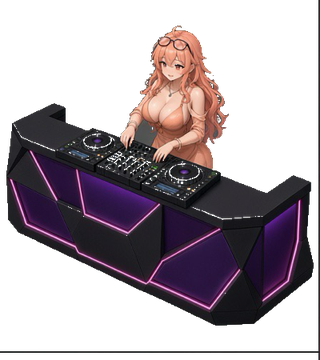
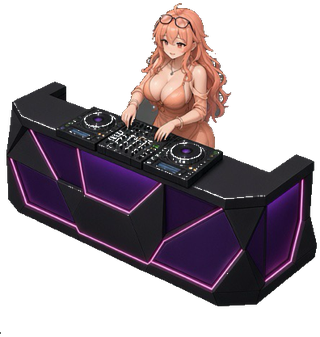
feat: DJ clean sheets + Luna idle front/back iso facing
Replace DJ booth front/back crops (no grid) keeping displaySize [98,110].
Wire Luna directional idle: SE/SW front sheet, NE/NW back (normalized 146×784) with flipX; walk uses facing idle until walk art arrives.

Changed region(s): [[0.0, 0.0, 1.0, 1.0], [0.6562, 0.8902, 0.8125, 0.9199]]

diff --git a/src/game/entities/Character.ts b/src/game/entities/Character.ts
@@ -19,6 +19,8 @@ export class Character extends Phaser.GameObjects.Container {
   protected walkAnimPrefix: string | null = null;
   /** Prefix for directional idle: `${prefix}-${facing}`; falls back to idleAnimKey. */
   protected idleAnimPrefix: string | null = null;
+  /** When true, SW/NW mirror the SE/NE sheets via flipX (Luna front/back). */
+  protected flipIdleFacings = false;
   /** Persist display size across texture swaps (idle ↔ walk ↔ serve). */
   protected sheetDisplayW = 0;
   protected sheetDisplayH = 0;
@@ -59,6 +61,8 @@ export class Character extends Phaser.GameObjects.Container {
     y?: number;
     walkAnimPrefix?: string;
     idleAnimPrefix?: string;
+    /** Mirror SW/NW with flipX (front/back sheet pairs). */
+    flipIdleFacings?: boolean;
   }): void {
     this.useSheetIdle = true;
     this.idleAnimKey = opts.animKey;
@@ -68,6 +72,7 @@ export class Character extends Phaser.GameObjects.Container {
         : null;
     this.walkAnimPrefix = opts.walkAnimPrefix ?? null;
     this.idleAnimPrefix = opts.idleAnimPrefix ?? null;
+    this.flipIdleFacings = opts.flipIdleFacings ?? false;
     this.sheetDisplayW = opts.displayWidth;
     this.sheetDisplayH = opts.displayHeight;
     this.bobTween?.stop();
@@ -107,13 +112,21 @@ export class Character extends Phaser.GameObjects.Container {
       const facingKey = `${this.idleAnimPrefix}-${this.facing}`;
       if (this.scene.anims.exists(facingKey)) key = facingKey;
     }
-    if (pool && pool.length > 0) {
+    // Facing-prefix idle wins over random pool (pool is for same-facing alts only).
+    if (pool && pool.length > 0 && !this.idleAnimPrefix) {
       key = pool[Math.floor(Math.random() * pool.length)] ?? key;
     }
     if (!key || !this.scene.anims.exists(key)) return;
     this.idleAnimKey = key;
+    this.applyFacingFlip();
     this.sprite.play(key, force);
     this.reapplyDisplaySize();
+  }
+
+  /** Mirror SW/NW when using front/back sheet pairs. */
+  protected applyFacingFlip(): void {
+    if (!this.flipIdleFacings) return;
+    this.sprite.setFlipX(this.facing === 'sw' || this.facing === 'nw');
   }
 
   private onSheetIdleComplete(
@@ -137,11 +150,22 @@ export class Character extends Phaser.GameObjects.Container {
 
   protected playWalkFacing(facing: IsoFacing): void {
     this.facing = facing;
-    if (!this.walkAnimPrefix) return;
-    const key = `${this.walkAnimPrefix}-${facing}`;
-    if (this.scene.anims.exists(key)) {
-      this.sprite.play(key, true);
-      this.reapplyDisplaySize();
+    this.applyFacingFlip();
+    if (this.walkAnimPrefix) {
+      const key = `${this.walkAnimPrefix}-${facing}`;
+      if (this.scene.anims.exists(key)) {
+        this.sprite.play(key, true);
+        this.reapplyDisplaySize();
+        return;
+      }
+    }
+    // No walk art yet — keep directional idle playing while moving.
+    if (this.idleAnimPrefix) {
+      const idleKey = `${this.idleAnimPrefix}-${facing}`;
+      if (this.scene.anims.exists(idleKey)) {
+        this.sprite.play(idleKey, true);
+        this.reapplyDisplaySize();
+      }
     }
   }
 
@@ -212,10 +236,12 @@ export class Character extends Phaser.GameObjects.Container {
     const screen = tileToScreen(next.col, next.row, this.iso);
     const dist = Phaser.Math.Distance.Between(this.x, this.y, screen.x, screen.y);
     const duration = Math.max(120, (dist / this.moveSpeed) * 1000);
-    if (!this.walkAnimPrefix) this.stopBob();
-    else {
+    // Prefer walk anim; else directional idle keeps playing (don't stopBob freeze).
+    if (this.walkAnimPrefix || this.idleAnimPrefix) {
       this.bobTween?.stop();
       this.bobTween = undefined;
+    } else {
+      this.stopBob();
     }
     this.scene.tweens.add({
       targets: this,

diff --git a/src/game/scenes/BootScene.ts b/src/game/scenes/BootScene.ts
@@ -108,6 +108,11 @@ export class BootScene extends Phaser.Scene {
       frameWidth: 146,
       frameHeight: 784,
     });
+    // Back-facing idle (normalized to same 146×784 as front)
+    this.load.spritesheet('luna_idle_back', 'assets/characters/luna_idle_back_sheet.png', {
+      frameWidth: 146,
+      frameHeight: 784,
+    });
     this.load.spritesheet('luna_serve_beer', 'assets/characters/luna_serve_beer_sheet.png', {
       frameWidth: 146,
       frameHeight: 784,
@@ -151,7 +156,26 @@ export class BootScene extends Phaser.Scene {
   }
 
   private ensureCharacterAnims(): void {
-    if (!this.anims.exists('luna-idle')) {
+    // Luna directional idle: SE/SW = front sheet, NE/NW = back sheet (flipX in Character)
+    const lunaIdleFacings: Array<{ key: string; texture: string }> = [
+      { key: 'se', texture: 'luna_idle' },
+      { key: 'sw', texture: 'luna_idle' },
+      { key: 'ne', texture: 'luna_idle_back' },
+      { key: 'nw', texture: 'luna_idle_back' },
+    ];
+    for (const f of lunaIdleFacings) {
+      const animKey = `luna-idle-${f.key}`;
+      if (!this.anims.exists(animKey) && this.textures.exists(f.texture)) {
+        this.anims.create({
+          key: animKey,
+          frames: this.anims.generateFrameNumbers(f.texture, { start: 0, end: 7 }),
+          frameRate: 9,
+          repeat: -1,
+        });
+      }
+    }
+    // Legacy alias (default SE)
+    if (!this.anims.exists('luna-idle') && this.anims.exists('luna-idle-se')) {
       this.anims.create({
         key: 'luna-idle',
         frames: this.anims.generateFrameNumbers('luna_idle', { start: 0, end: 7 }),

diff --git a/src/game/entities/Bartender.ts b/src/game/entities/Bartender.ts
@@ -16,7 +16,7 @@ export interface BartenderData {
   moveSpeed: number;
 }
 
-/** Luna idle sheet: 1168×784 → 8 frames of 146×784; feet near y=583. */
+/** Luna idle front/back sheets: 1168×784 → 8 frames of 146×784; feet near y=583. */
 export const LUNA_IDLE_FRAME_W = 146;
 export const LUNA_IDLE_FRAME_H = 784;
 export const LUNA_FEET_ORIGIN_Y = 583 / 784;
@@ -70,11 +70,13 @@ export class Bartender extends Character {
       const displayH = LUNA_DISPLAY_H;
       const displayW = (LUNA_IDLE_FRAME_W / LUNA_IDLE_FRAME_H) * displayH;
       this.setupSheetIdle({
-        animKey: 'luna-idle',
+        animKey: 'luna-idle-se',
         originY: LUNA_FEET_ORIGIN_Y,
         displayWidth: displayW,
         displayHeight: displayH,
         y: 6,
+        idleAnimPrefix: 'luna-idle',
+        flipIdleFacings: true, // SE/SW=front sheet, NE/NW=back sheet + flipX
       });
       this.ring.setPosition(0, -2);
       this.ring.setSize(28, 12);
@@ -250,6 +252,7 @@ export class Bartender extends Character {
 
     this.bobTween?.stop();
     this.bobTween = undefined;
+    this.applyFacingFlip();
     this.sprite.play(key, true);
     this.reapplyDisplaySize();
     this.sprite.setOrigin(0.5, originY);

diff --git a/scripts/process_luna_idle_facings.py b/scripts/process_luna_idle_facings.py
@@ -1,0 +1,198 @@
+#!/usr/bin/env python3
+"""Punch studio gray from Luna idle FRONT/BACK sheets; normalize back to 146×784."""
+from __future__ import annotations
+
+from pathlib import Path
+
+import numpy as np
+from PIL import Image
+from scipy import ndimage
+
+ATT = Path("/home/box/agent-data/agents/f700e6ae-328d-4b52-bf56-2e253ee65a34/attachments")
+# A = front (face), B = back (hair + apron bow)
+FRONT_SRC = ATT / "4d97ea654ced12d6287dc0d7a186ee6554e727abb6fb24ab2c69192cc7bf6e09.png"
+BACK_SRC = ATT / "3f5fafb779833b766dc739b4e57c498c11ecf3f163d9b7f586004e2c59ea406d.png"
+
+OUT = Path("/workspace/night-club-sim/public/assets/characters")
+CUTOUTS = Path("/workspace/cutouts")
+PREV = Path("/workspace/night-club-sim/tmp_bar_preview")
+
+FRONT_FW, FRONT_FH = 146, 784
+FRONT_COLS = 8
+BACK_NATIVE_FW = 200  # 1600/8
+TARGET_CONTENT_H = 417
+FEET_Y = 583  # match existing front feet
+
+
+def punch_studio(rgba: np.ndarray) -> np.ndarray:
+    rgb = rgba[:, :, :3].astype(np.float32)
+    a0 = rgba[:, :, 3].astype(np.float32)
+    mx = rgb.max(2)
+    mn = rgb.min(2)
+    spread = mx - mn
+    luma = rgb.mean(2)
+    r, g, b = rgb[:, :, 0], rgb[:, :, 1], rgb[:, :, 2]
+
+    colorful = (spread >= 18) & (a0 > 40)
+    skin = (r > 110) & (g > 75) & (b > 55) & (r > g) & (spread > 8) & (a0 > 40)
+    hair_pink = (r > 140) & (b > 100) & (g < r) & (spread > 20) & (a0 > 40)
+    black_clothes = (mx <= 55) & (a0 > 80) & (spread < 25)
+    white_frill = (mn > 180) & (spread < 40) & (a0 > 80)
+    protect = colorful | skin | hair_pink | black_clothes | white_frill
+
+    studio = (spread < 18) & (luma >= 70) & (luma <= 140) & ~protect
+    near_black = (mx < 22) & (spread < 10) & ~protect & (a0 > 0)
+
+    h, w = a0.shape
+    seed = (a0 < 12) | studio | near_black
+    seed[:2, :] = True
+    seed[-2:, :] = True
+    seed[:, :2] = True
+    seed[:, -2:] = True
+    walk = studio | near_black | (a0 < 12)
+    struct = ndimage.generate_binary_structure(2, 1)
+    killed = seed & walk
+    for _ in range(max(h, w)):
+        grown = ndimage.binary_dilation(killed, structure=struct) & walk
+        if grown.sum() == killed.sum():
+            break
+        killed = grown
+
+    alpha = a0.copy()
+    alpha[killed & ~protect] = 0
+    near_clear = ndimage.binary_dilation(alpha < 8, iterations=1)
+    fringe = near_clear & studio & ~protect & (alpha > 0)
+    alpha[fringe] = 0
+    # tiny studio speckles
+    lab, _ = ndimage.label(studio & (alpha > 200))
+    sizes = np.bincount(lab.ravel())
+    if len(sizes):
+        sizes[0] = 0
+        tiny = sizes < 20
+        tiny[0] = False
+        alpha[tiny[lab] & ~protect] = 0
+
+    out_rgb = rgb.astype(np.uint8).copy()
+    out_rgb[alpha < 8] = 0
+    return np.dstack([out_rgb, alpha.astype(np.uint8)])
+
+
+def checker(img: Image.Image, path: Path) -> None:
+    rgba = np.array(img.convert("RGBA"))
+    h, w = rgba.shape[:2]
+    yy, xx = np.indices((h, w))
+    chk = np.where(((xx // 12) + (yy // 12)) % 2 == 0, 210, 70).astype(np.float32)
+    af = rgba[:, :, 3].astype(np.float32) / 255.0
+    comp = (
+        rgba[:, :, :3].astype(np.float32) * af[..., None]
+        + chk[..., None] * (1 - af[..., None])
+    ).astype(np.uint8)
+    Image.fromarray(comp, "RGB").save(path, "JPEG", quality=90)
+
+
+def process_front() -> Image.Image:
+    raw = np.array(Image.open(FRONT_SRC).convert("RGBA"))
+    assert raw.shape[1] == FRONT_COLS * FRONT_FW and raw.shape[0] == FRONT_FH
+    punched = punch_studio(raw)
+    out = Image.fromarray(punched, "RGBA")
+    out.save(OUT / "luna_idle_sheet.png", "PNG", optimize=True)
+    out.save(CUTOUTS / "luna_idle_sheet.png", "PNG")
+    cell = punched[:, 0:FRONT_FW]
+    ys, xs = np.where(cell[:, :, 3] > 20)
+    print(
+        f"front sheet {out.size} content_h={ys.max()-ys.min()+1} "
+        f"y={ys.min()}-{ys.max()} a0={(punched[:,:,3]<8).sum()}"
+    )
+    checker(Image.fromarray(cell, "RGBA"), PREV / "luna_front_f0_check.jpg")
+    return out
+
+
+def normalize_back_frame(cell: np.ndarray) -> np.ndarray:
+    ys, xs = np.where(cell[:, :, 3] > 20)
+    if len(ys) == 0:
+        return np.zeros((FRONT_FH, FRONT_FW, 4), dtype=np.uint8)
+    crop = cell[ys.min() : ys.max() + 1, xs.min() : xs.max() + 1]
+    ch, cw = crop.shape[:2]
+    scale = TARGET_CONTENT_H / ch
+    nh, nw = TARGET_CONTENT_H, max(1, int(round(cw * scale)))
+    resized = np.array(
+        Image.fromarray(crop, "RGBA").resize((nw, nh), Image.Resampling.LANCZOS)
+    )
+    canvas = np.zeros((FRONT_FH, FRONT_FW, 4), dtype=np.uint8)
+    top = FEET_Y - nh + 1
+    left = (FRONT_FW - nw) // 2
+    if top < 0:
+        resized = resized[-top:]
+        top = 0
+    if left < 0:
+        xoff = (nw - FRONT_FW) // 2
+        resized = resized[:, xoff : xoff + FRONT_FW]
+        left = 0
+    if left + resized.shape[1] > FRONT_FW:
+        resized = resized[:, : FRONT_FW - left]
+    if top + resized.shape[0] > FRONT_FH:
+        resized = resized[: FRONT_FH - top]
+    canvas[top : top + resized.shape[0], left : left + resized.shape[1]] = resized
+    return canvas
+
+
+def process_back() -> Image.Image:
+    raw = np.array(Image.open(BACK_SRC).convert("RGBA"))
+    punched = punch_studio(raw)
+    h, w = punched.shape[:2]
+    assert w == 8 * BACK_NATIVE_FW, f"unexpected back width {w}"
+    frames = []
+    for i in range(8):
+        cell = punched[:, i * BACK_NATIVE_FW : (i + 1) * BACK_NATIVE_FW]
+        frames.append(normalize_back_frame(cell))
+    sheet = np.concatenate(frames, axis=1)
+    out = Image.fromarray(sheet, "RGBA")
+    # Primary back sheet name used by BootScene
+    out.save(OUT / "luna_idle_back_sheet.png", "PNG", optimize=True)
+    # Keep legacy filename in sync (was alt idle; now back facing)
+    out.save(OUT / "luna_idle_b_sheet.png", "PNG", optimize=True)
+    out.save(CUTOUTS / "luna_idle_back_sheet.png", "PNG")
+    cell = sheet[:, 0:FRONT_FW]
+    ys, xs = np.where(cell[:, :, 3] > 20)
+    print(
+        f"back sheet {out.size} (normalized from {w}x{h} @ {BACK_NATIVE_FW}x{h}) "
+        f"content_h={ys.max()-ys.min()+1} y={ys.min()}-{ys.max()} "
+        f"a0={(sheet[:,:,3]<8).sum()}"
+    )
+    checker(Image.fromarray(cell, "RGBA"), PREV / "luna_back_f0_check.jpg")
+    meta = OUT / "luna_idle_facing_meta.txt"
+    meta.write_text(
+        "front=luna_idle_sheet.png 1168x784 frame=146x784 cols=8 "
+        f"(src A face, content~{TARGET_CONTENT_H}px)\n"
+        "back=luna_idle_back_sheet.png 1168x784 frame=146x784 cols=8 "
+        f"(src B hair-back, native 200x1077 normalized)\n"
+        "facing: se=front, sw=front flipX, ne=back, nw=back flipX\n"
+        f"feet_origin_y={FEET_Y}/{FRONT_FH} display_h=158 visible~84px\n"
+    )
+    print(meta.read_text())
+    return out
+
+
+def main() -> None:
+    OUT.mkdir(parents=True, exist_ok=True)
+    CUTOUTS.mkdir(parents=True, exist_ok=True)
+    PREV.mkdir(parents=True, exist_ok=True)
+    process_front()
+    process_back()
+    # strip preview
+    for tag, name in ("front", "luna_idle_sheet.png"), ("back", "luna_idle_back_sheet.png"):
+        sheet = Image.open(OUT / name)
+        frames = [
+            sheet.crop((i * FRONT_FW, 0, (i + 1) * FRONT_FW, FRONT_FH))
+            .crop((0, 150, FRONT_FW, 600))
+            .resize((73, 112), Image.Resampling.LANCZOS)
+            for i in range(8)
+        ]
+        canvas = Image.new("RGBA", (73 * 8, 112))
+        for i, f in enumerate(frames):
+            canvas.paste(f, (i * 73, 0), f)
+        checker(canvas, PREV / f"luna_{tag}_strip.jpg")
+
+
+if __name__ == "__main__":
+    main()

diff --git a/scripts/process_dj_booth_sheets.py b/scripts/process_dj_booth_sheets.py
@@ -9,8 +9,8 @@ from PIL import Image
 from scipy import ndimage
 
 ATT = Path("/home/box/agent-data/agents/f700e6ae-328d-4b52-bf56-2e253ee65a34/attachments")
-FRONT_SRC = ATT / "b109b6558cdf8e8e1bb20cd9144e5cd2ddff53d89641c5db4b0c9bf39c0b7578.png"  # face = front
-BACK_SRC = ATT / "3ee96ebc80057803e632cdebf1b5a1f3eca4d5aae19541c9236744d6cb8f29ae.png"  # hair-back = back
+FRONT_SRC = ATT / "cc3e1bad1718d74718198171a63f9dcffb3209147aac690ca940e554c7498d11.png"  # face = front
+BACK_SRC = ATT / "77b9f8663bf50dffaf80e88ecf9a329784326dfbd6a8abc5504b5f554fca7579.png"  # hair-back = back
 # ref single: 8cd3e8bc4661dd191ddbec84341eab35a9680593cd13370f5eb5cafb5537508d.png
 
 OUT = Path("/workspace/night-club-sim/public/assets/furniture")
@@ -210,9 +210,9 @@ def main() -> None:
     display_h = int(round(luna * FRAME_H / person_h))
     display_w = int(round(display_h * FRAME_W / FRAME_H))
     # Prefer tidy pair close to measured
-    if abs(display_h - 110) <= 3:
-        display_h, display_w = 110, 98
-    print(f"person_h={person_h} ({hair_top}->{booth_y}) luna={luna:.1f} → displaySize=[{display_w},{display_h}]")
+    # Keep in-game displaySize locked (shop_furniture.json)
+    display_h, display_w = 110, 98
+    print(f"person_h={person_h} ({hair_top}->{booth_y}) luna={luna:.1f} → keep displaySize=[{display_w},{display_h}]")
 
     for label, im in ("front", front), ("back", back):
         a = np.array(im)
@@ -235,7 +235,7 @@ def main() -> None:
         f"facing: se=front frame0, sw=front flip, ne=back frame0, nw=back flip\n"
         f"placement_se={se.size[0]}x{se.size[1]} ne={ne.size[0]}x{ne.size[1]}\n"
         f"person_h_px={person_h} displaySize=[{display_w}, {display_h}]\n"
-        f"sources: front=b109b655…png back=3ee96ebc…png ref=8cd3e8bc…png\n"
+        f"sources: front=cc3e1bad…png back=77b9f866…png (clean crops, no grid)\n"
     )
     print(meta.read_text())
     checker(front.crop((0, 0, FRAME_W, FRAME_H)), PREV / "dj_front_f0_check.jpg")
